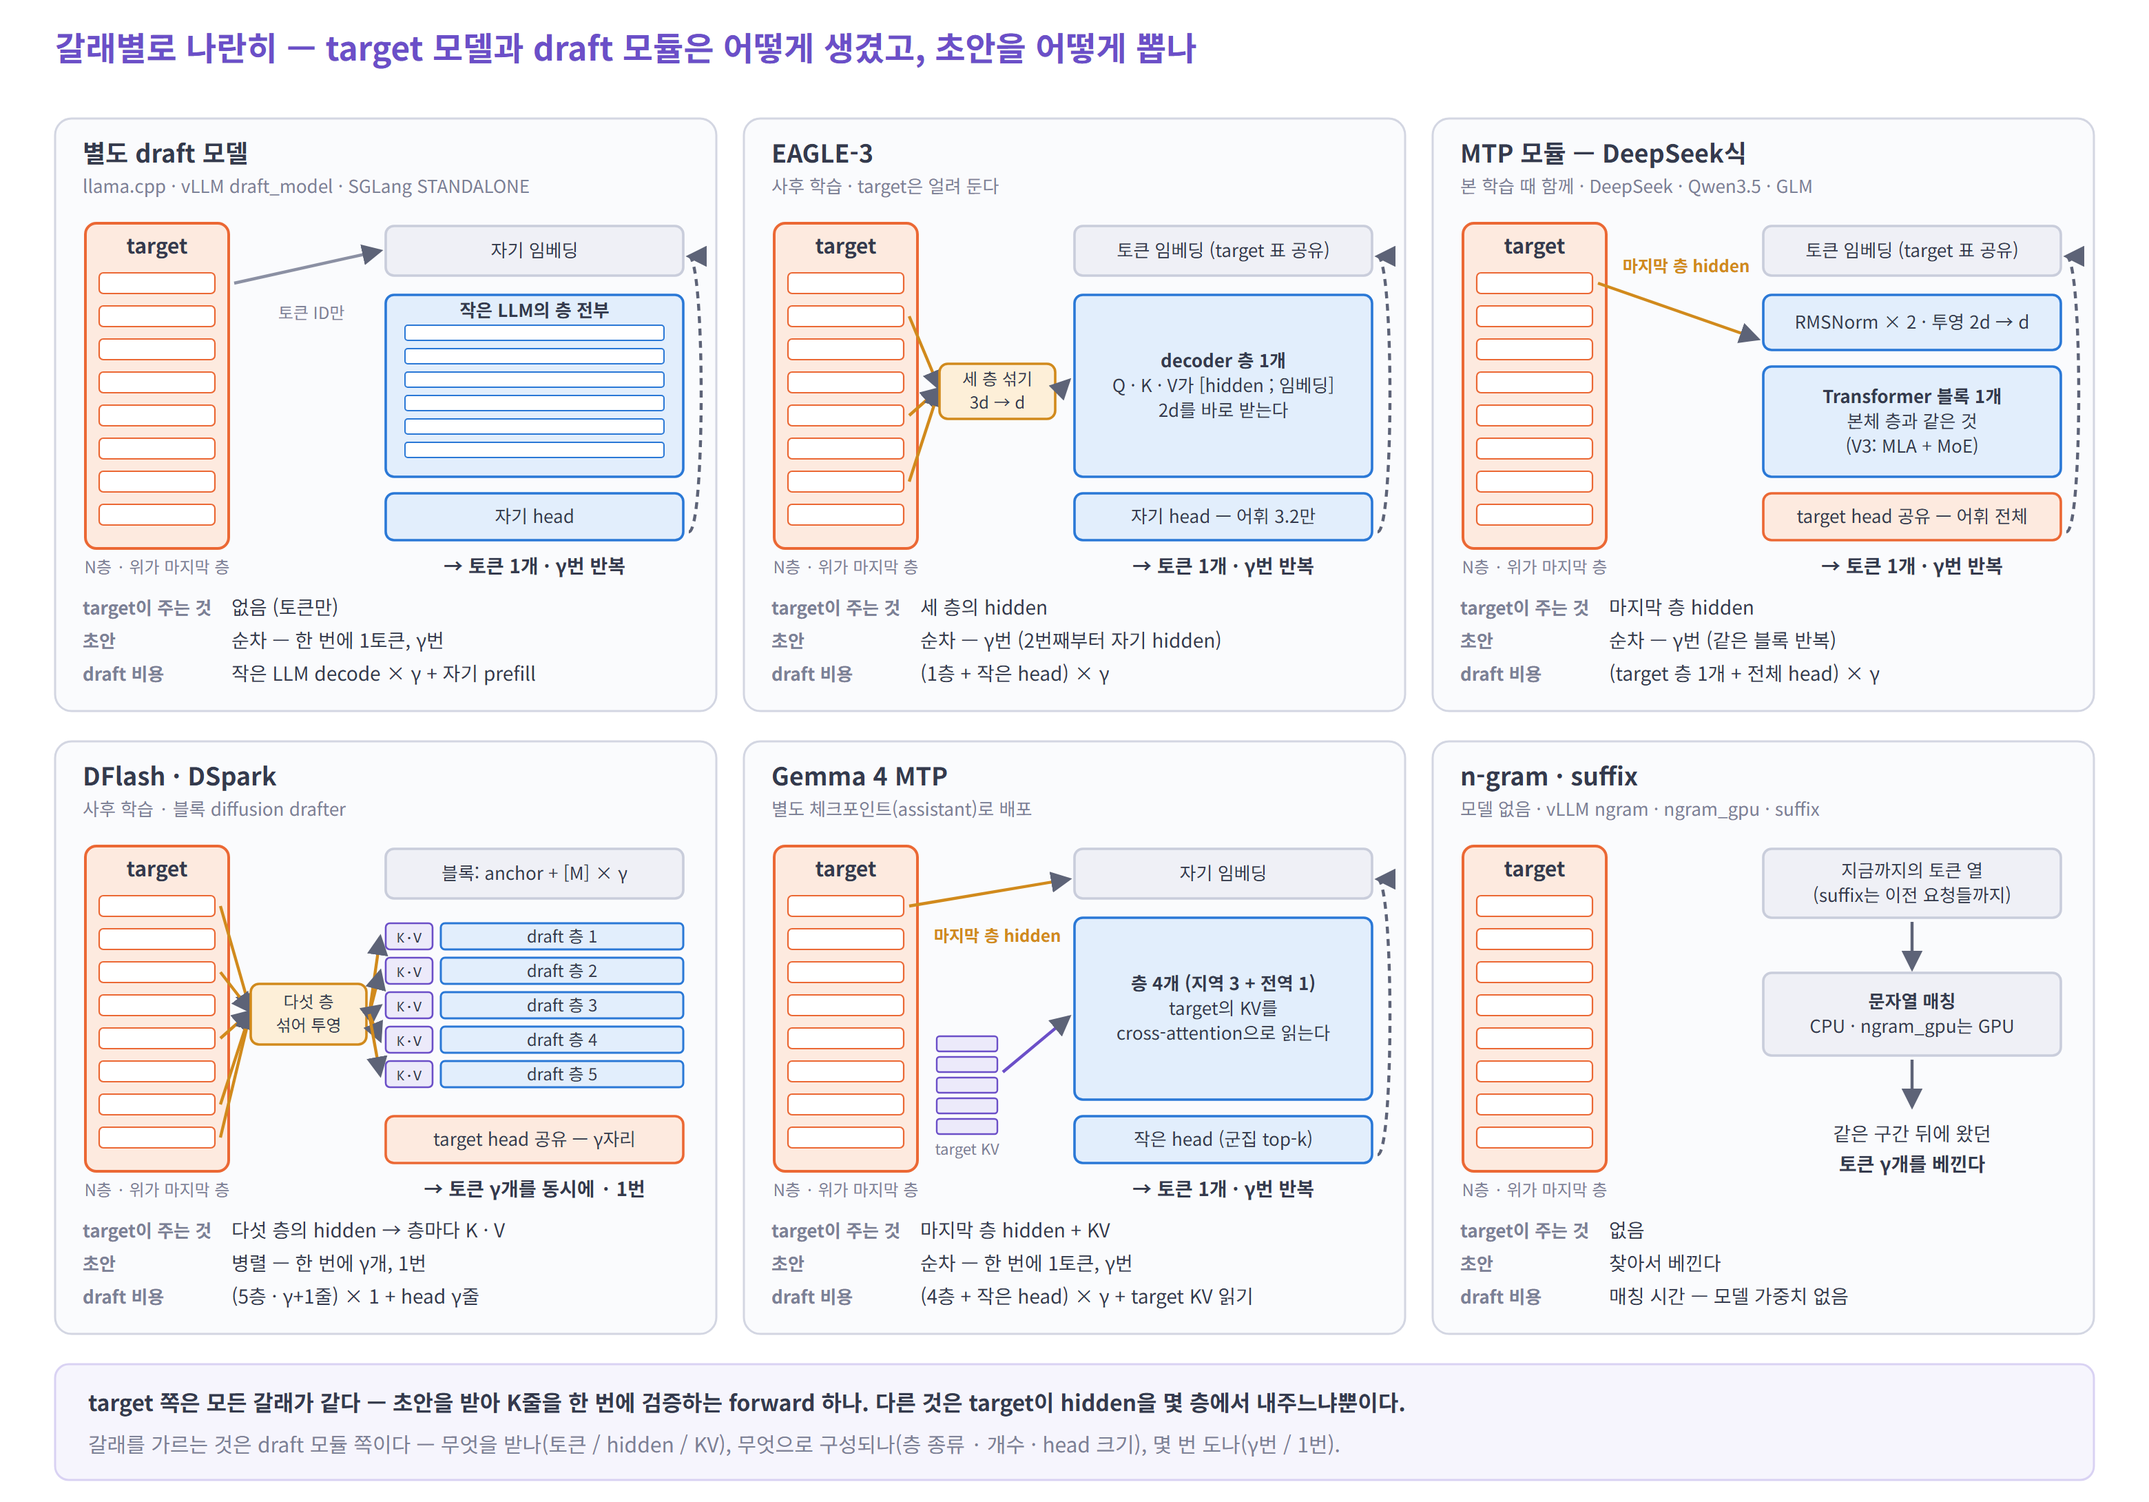
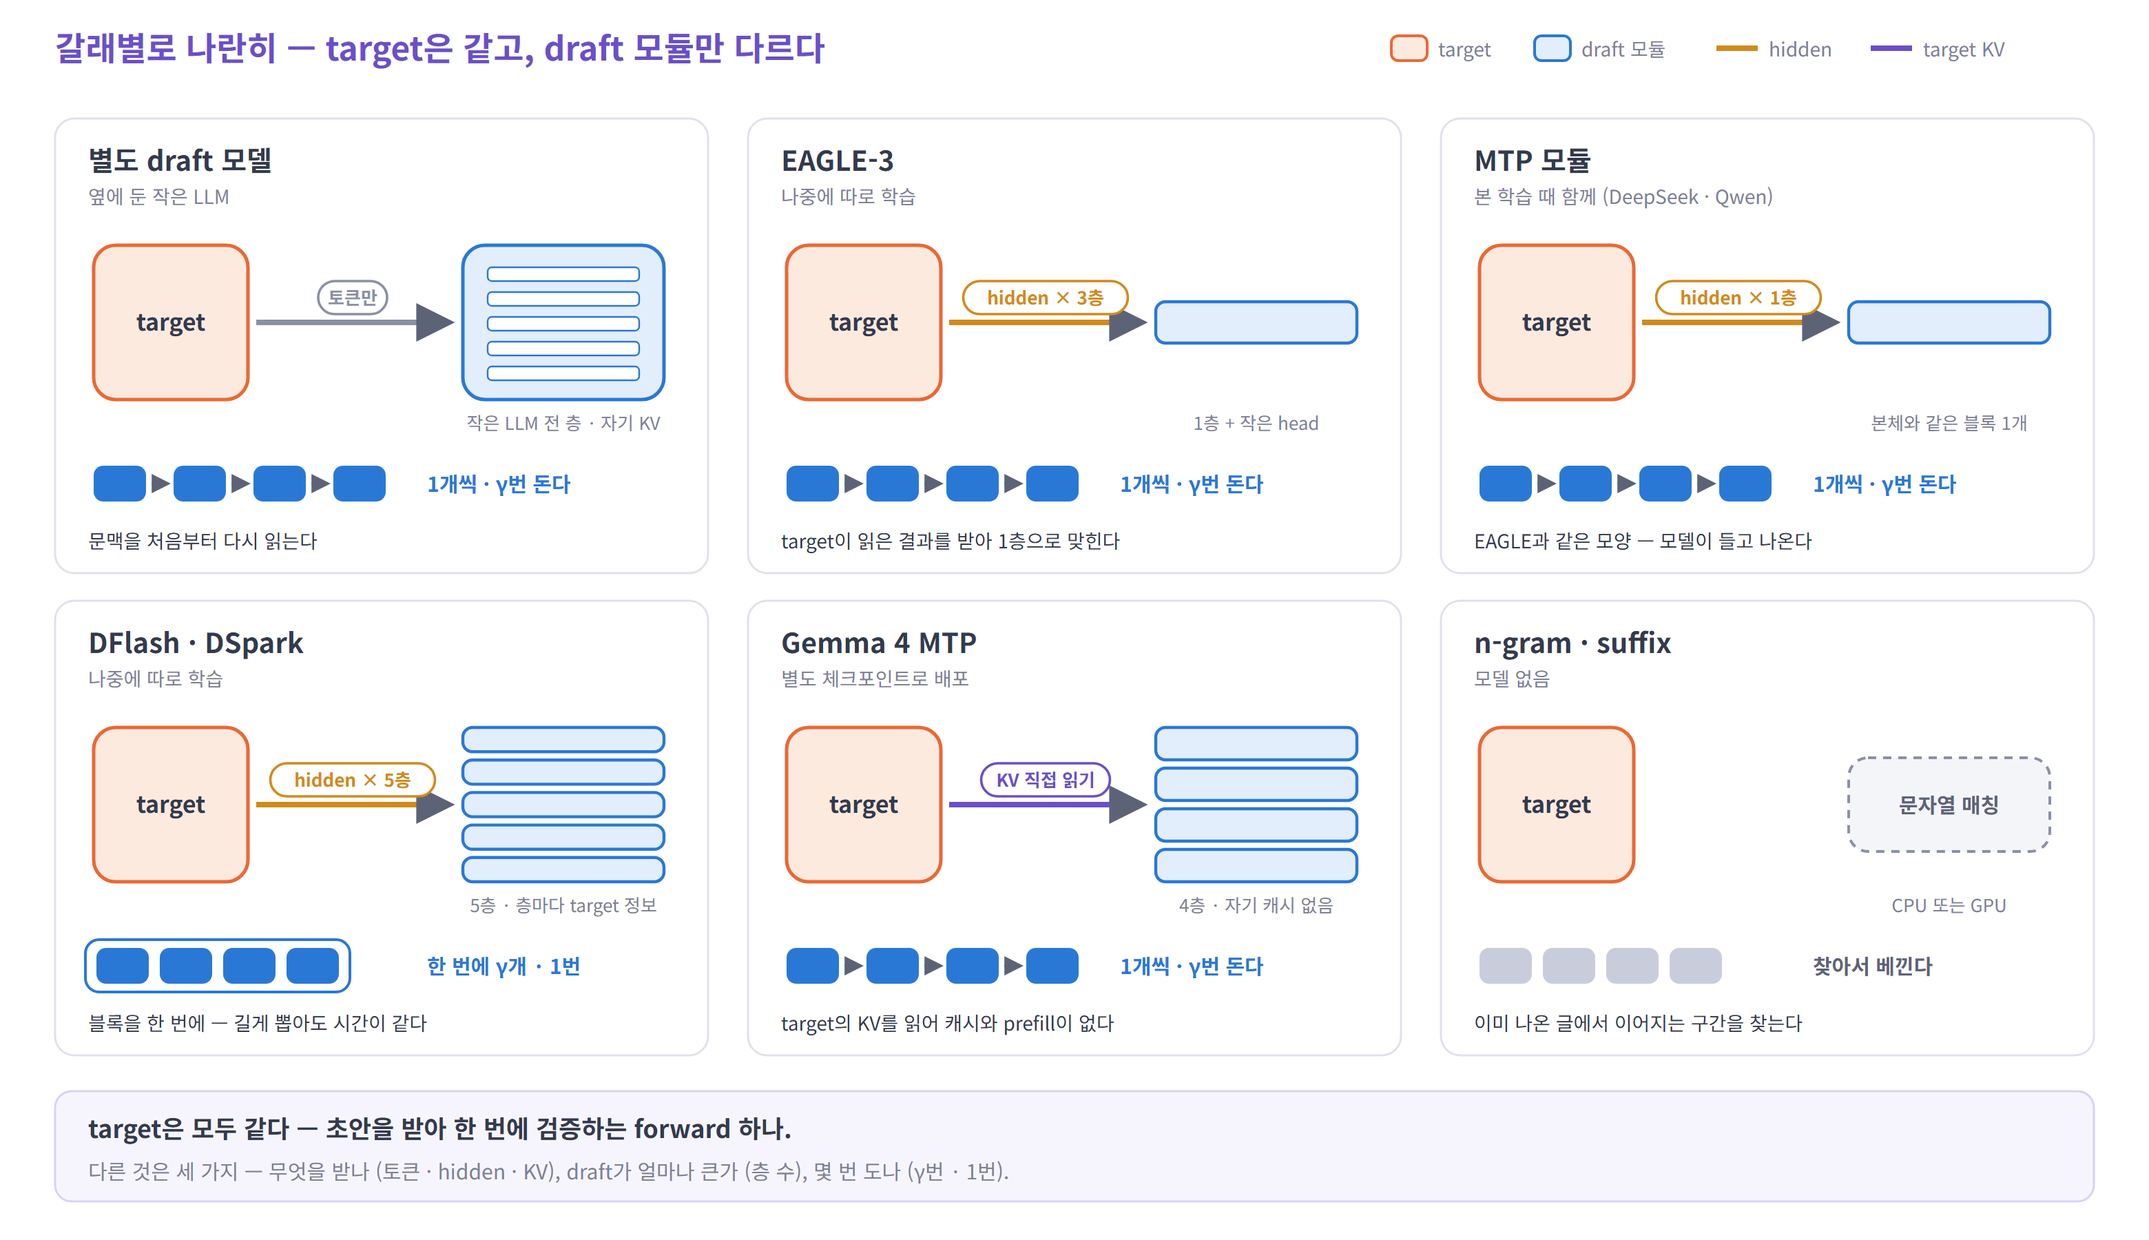
docs: simplify the side-by-side drafter figure into six cards
Redraw the branch comparison as one card per drafter: the same target
box in every card, one labeled arrow for what the draft side receives
(tokens, hidden from N layers, or target KV), the draft module sized by
its layer count, and token chips showing one-at-a-time versus
block-at-once drafting. Update the reading guide in the drafter page to
match.

diff --git a/deepstudy/speculative-decoding/figures/make_figures.py b/deepstudy/speculative-decoding/figures/make_figures.py
@@ -414,140 +414,88 @@ def fig_cycle_tokens():
 
 # ---------------------------------------------------------------- 22. 갈래별 target과 draft 모듈
 def fig_anatomy():
-    f = Fig("22-drafter-anatomy", 1560, 1090)
-    f.title(40, 44, "갈래별로 나란히 — target 모델과 draft 모듈은 어떻게 생겼고, 초안을 어떻게 뽑나")
-    AMB = KINDS["a"][1]
-    pw, ph = 480, 430
+    f = Fig("22-drafter-anatomy", 1560, 900)
+    f.title(40, 44, "갈래별로 나란히 — target은 같고, draft 모듈만 다르다")
+    AMB, GRAY = "#d18a1c", "#8b90a3"
+    # 범례
+    lx = 1010
+    f.rect(lx, 26, 26, 18, KINDS["t"][0], KINDS["t"][1], 5, 2)
+    f.text(lx + 34, 41, "target", 14, "start", color=MUTED)
+    f.rect(lx + 104, 26, 26, 18, KINDS["d"][0], KINDS["d"][1], 5, 2)
+    f.text(lx + 138, 41, "draft 모듈", 14, "start", color=MUTED)
+    f.line(lx + 236, 35, lx + 266, 35, AMB, 4)
+    f.text(lx + 274, 41, "hidden", 14, "start", color=MUTED)
+    f.line(lx + 348, 35, lx + 378, 35, PURPLE, 4)
+    f.text(lx + 386, 41, "target KV", 14, "start", color=MUTED)
 
-    def tlabel(x, y, w, h, kind, rows, fs=13, bold=False):
-        f.rect(x, y, w, h, KINDS[kind][0], KINDS[kind][1], 6, 1.8)
-        n = len(rows)
-        for i, r in enumerate(rows):
-            f.text(x + w / 2, y + h / 2 + (i - (n - 1) / 2) * (fs + 5) + fs * 0.35, r, fs, weight=700 if bold and i == 0 else 400)
+    cw, ch = 474, 330
 
-    def panel(px, py, name, sub, kind):
-        f.rect(px, py, pw, ph, "#fafbfd", "#d3d6e2", 12, 1.5)
-        f.text(px + 20, py + 32, name, 18, "start", 700)
-        f.text(px + 20, py + 54, sub, 13, "start", color=MUTED)
-        # target
-        tx, ty, tw, th = px + 22, py + 76, 104, 236
-        f.rect(tx, ty, tw, th, KINDS["t"][0], KINDS["t"][1], 8, 2)
-        f.text(tx + tw / 2, ty + 22, "target", 15, weight=700)
-        stripes = []
-        for j in range(8):
-            yy = ty + 36 + j * 24
-            f.rect(tx + 10, yy, tw - 20, 15, "#ffffff", KINDS["t"][1], 3, 1.1)
-            stripes.append(yy + 7.5)
-        f.text(tx + tw / 2, ty + th + 18, "N층 · 위가 마지막 층", 12, color=MUTED)
-        mx, mw = px + 240, 216
-        return tx, tw, stripes, mx, mw
+    def card(cx, cy, name, sub, flow, flow_col, draft, cap, mode, foot):
+        f.rect(cx, cy, cw, ch, "#ffffff", "#dfe2ec", 14, 1.5)
+        f.text(cx + 24, cy + 38, name, 20, "start", 700)
+        f.text(cx + 24, cy + 62, sub, 14, "start", color=MUTED)
+        # target — 모든 카드에서 같은 모양
+        f.rect(cx + 28, cy + 92, 112, 112, KINDS["t"][0], KINDS["t"][1], 16, 2.5)
+        f.text(cx + 84, cy + 154, "target", 17, weight=700)
+        # 받는 것
+        if flow:
+            f.line(cx + 146, cy + 148, cx + 286, cy + 148, flow_col, 4, None, True)
+            w = 14 * len(flow) * 0.62 + 24
+            f.rect(cx + 216 - w / 2, cy + 118, w, 24, "#ffffff", flow_col, 12, 1.8)
+            f.text(cx + 216, cy + 135, flow, 13, weight=700, color=flow_col)
+        # draft 모듈
+        dx, dy, dw, dh = cx + 296, cy + 92, 146, 112
+        if draft == "llm":
+            f.rect(dx, dy, dw, dh, KINDS["d"][0], KINDS["d"][1], 16, 2.5)
+            for j in range(5):
+                f.rect(dx + 18, dy + 16 + j * 18, dw - 36, 10, "#ffffff", KINDS["d"][1], 3, 1.2)
+        elif draft == "none":
+            f.rect(dx, dy + 22, dw, dh - 44, "#f4f5f9", GRAY, 14, 2, "6 5")
+            f.text(dx + dw / 2, dy + dh / 2 + 6, "문자열 매칭", 15, weight=700, color="#5d6377")
+        else:
+            n = draft
+            gap = 6
+            bh = min(30, (dh - (n - 1) * gap) / n)
+            top = dy + (dh - (n * bh + (n - 1) * gap)) / 2
+            for j in range(n):
+                f.rect(dx, top + j * (bh + gap), dw, bh, KINDS["d"][0], KINDS["d"][1], 7, 2.2)
+        f.text(dx + dw / 2, cy + 226, cap, 13, color=MUTED)
+        # 초안을 뽑는 방식
+        y = cy + 252
+        if mode == "seq":
+            for i in range(4):
+                f.rect(cx + 28 + i * 58, y, 38, 26, SOLID["d"], "none", 7)
+                if i < 3:
+                    f.line(cx + 70 + i * 58, y + 13, cx + 82 + i * 58, y + 13, KINDS["d"][1], 2, None, True)
+            f.text(cx + 270, y + 19, "1개씩 · γ번 돈다", 15, "start", 700, KINDS["d"][1])
+        elif mode == "par":
+            f.rect(cx + 22, y - 6, 192, 38, "none", KINDS["d"][1], 10, 2)
+            for i in range(4):
+                f.rect(cx + 30 + i * 46, y, 38, 26, SOLID["d"], "none", 7)
+            f.text(cx + 270, y + 19, "한 번에 γ개 · 1번", 15, "start", 700, KINDS["d"][1])
+        else:
+            for i in range(4):
+                f.rect(cx + 28 + i * 46, y, 38, 26, "#c9cddb", "none", 7)
+            f.text(cx + 270, y + 19, "찾아서 베낀다", 15, "start", 700, "#5d6377")
+        f.text(cx + 24, cy + 312, foot, 14, "start")
 
-    def loop(px, py, txt):
-        x = px + pw - 14
-        f.curve(x - 6, py + 300, x + 6, py + 300, x + 6, py + 100, x - 6, py + 100, dash="5 4")
+    xs, ys = [40, 543, 1046], [86, 436]
+    card(xs[0], ys[0], "별도 draft 모델", "옆에 둔 작은 LLM", "토큰만", GRAY, "llm", "작은 LLM 전 층 · 자기 KV", "seq",
+         "문맥을 처음부터 다시 읽는다")
+    card(xs[1], ys[0], "EAGLE-3", "나중에 따로 학습", "hidden × 3층", AMB, 1, "1층 + 작은 head", "seq",
+         "target이 읽은 결과를 받아 1층으로 맞힌다")
+    card(xs[2], ys[0], "MTP 모듈", "본 학습 때 함께 (DeepSeek · Qwen)", "hidden × 1층", AMB, 1, "본체와 같은 블록 1개", "seq",
+         "EAGLE과 같은 모양 — 모델이 들고 나온다")
+    card(xs[0], ys[1], "DFlash · DSpark", "나중에 따로 학습", "hidden × 5층", AMB, 5, "5층 · 층마다 target 정보", "par",
+         "블록을 한 번에 — 길게 뽑아도 시간이 같다")
+    card(xs[1], ys[1], "Gemma 4 MTP", "별도 체크포인트로 배포", "KV 직접 읽기", PURPLE, 4, "4층 · 자기 캐시 없음", "seq",
+         "target의 KV를 읽어 캐시와 prefill이 없다")
+    card(xs[2], ys[1], "n-gram · suffix", "모델 없음", None, GRAY, "none", "CPU 또는 GPU", "copy",
+         "이미 나온 글에서 이어지는 구간을 찾는다")
 
-    def foot(px, py, rows):
-        for i, (k, v) in enumerate(rows):
-            f.text(px + 20, py + 360 + i * 24, k, 13, "start", 700, MUTED)
-            f.text(px + 128, py + 360 + i * 24, v, 14, "start")
-
-    P = [(40, 86), (540, 86), (1040, 86), (40, 538), (540, 538), (1040, 538)]
-
-    # ① 별도 draft 모델
-    px, py = P[0]
-    tx, tw, st, mx, mw = panel(px, py, "별도 draft 모델", "llama.cpp · vLLM draft_model · SGLang STANDALONE", "n")
-    f.arrow(tx + tw + 4, st[0], mx - 4, py + 96, color="#8b90a3")
-    f.text(tx + tw + 60, st[0] + 26, "토큰 ID만", 12, color=MUTED)
-    tlabel(mx, py + 78, mw, 36, "n", ["자기 임베딩"])
-    f.rect(mx, py + 128, mw, 132, KINDS["d"][0], KINDS["d"][1], 6, 1.8)
-    for j in range(6):
-        f.rect(mx + 14, py + 150 + j * 17, mw - 28, 11, "#ffffff", KINDS["d"][1], 2, 1)
-    f.text(mx + mw / 2, py + 144, "작은 LLM의 층 전부", 13, weight=700)
-    tlabel(mx, py + 272, mw, 34, "d", ["자기 head"])
-    f.text(mx + mw / 2, py + 330, "→ 토큰 1개 · γ번 반복", 14, weight=700)
-    loop(px, py, "")
-    foot(px, py, [("target이 주는 것", "없음 (토큰만)"), ("초안", "순차 — 한 번에 1토큰, γ번"),
-                  ("draft 비용", "작은 LLM decode × γ + 자기 prefill")])
-
-    # ② EAGLE-3
-    px, py = P[1]
-    tx, tw, st, mx, mw = panel(px, py, "EAGLE-3", "사후 학습 · target은 얼려 둔다", "n")
-    for j in (1, 4, 6):
-        f.arrow(tx + tw - 6, st[j], px + 142, py + 196, color=AMB)
-    tlabel(px + 142, py + 178, 84, 40, "a", ["세 층 섞기", "3d → d"], 12)
-    tlabel(mx, py + 78, mw, 36, "n", ["토큰 임베딩 (target 표 공유)"])
-    f.arrow(px + 228, py + 198, mx - 4, py + 190, color=AMB)
-    tlabel(mx, py + 128, mw, 132, "d", ["decoder 층 1개", "Q · K · V가 [hidden ; 임베딩]", "2d를 바로 받는다"], 13, True)
-    tlabel(mx, py + 272, mw, 34, "d", ["자기 head — 어휘 3.2만"])
-    f.text(mx + mw / 2, py + 330, "→ 토큰 1개 · γ번 반복", 14, weight=700)
-    loop(px, py, "")
-    foot(px, py, [("target이 주는 것", "세 층의 hidden"), ("초안", "순차 — γ번 (2번째부터 자기 hidden)"),
-                  ("draft 비용", "(1층 + 작은 head) × γ")])
-
-    # ③ MTP (DeepSeek식)
-    px, py = P[2]
-    tx, tw, st, mx, mw = panel(px, py, "MTP 모듈 — DeepSeek식", "본 학습 때 함께 · DeepSeek · Qwen3.5 · GLM", "n")
-    f.arrow(tx + tw - 6, st[0], mx - 4, py + 160, color=AMB)
-    f.text(px + 184, st[0] - 8, "마지막 층 hidden", 12, weight=700, color=AMB)
-    tlabel(mx, py + 78, mw, 36, "n", ["토큰 임베딩 (target 표 공유)"])
-    tlabel(mx, py + 128, mw, 40, "d", ["RMSNorm × 2 · 투영 2d → d"])
-    tlabel(mx, py + 180, mw, 80, "d", ["Transformer 블록 1개", "본체 층과 같은 것", "(V3: MLA + MoE)"], 13, True)
-    tlabel(mx, py + 272, mw, 34, "t", ["target head 공유 — 어휘 전체"])
-    f.text(mx + mw / 2, py + 330, "→ 토큰 1개 · γ번 반복", 14, weight=700)
-    loop(px, py, "")
-    foot(px, py, [("target이 주는 것", "마지막 층 hidden"), ("초안", "순차 — γ번 (같은 블록 반복)"),
-                  ("draft 비용", "(target 층 1개 + 전체 head) × γ")])
-
-    # ④ DFlash · DSpark
-    px, py = P[3]
-    tx, tw, st, mx, mw = panel(px, py, "DFlash · DSpark", "사후 학습 · 블록 diffusion drafter", "n")
-    for j in (0, 2, 4, 6, 7):
-        f.arrow(tx + tw - 6, st[j], px + 142, py + 196, color=AMB)
-    tlabel(px + 142, py + 176, 84, 44, "a", ["다섯 층", "섞어 투영"], 12)
-    tlabel(mx, py + 78, mw, 36, "n", ["블록: anchor + [M] × γ"])
-    for i in range(5):
-        yy = py + 132 + i * 25
-        f.rect(mx + 40, yy, mw - 40, 19, KINDS["d"][0], KINDS["d"][1], 3, 1.5)
-        f.text(mx + 40 + (mw - 40) / 2, yy + 14, f"draft 층 {i + 1}", 12)
-        f.rect(mx, yy, 34, 19, KINDS["c"][0], KINDS["c"][1], 3, 1.3)
-        f.text(mx + 17, yy + 14, "K·V", 11, mono=True)
-        f.arrow(px + 228, py + 198, mx - 4, yy + 10, color=AMB)
-    tlabel(mx, py + 272, mw, 34, "t", ["target head 공유 — γ자리"])
-    f.text(mx + mw / 2, py + 330, "→ 토큰 γ개를 동시에 · 1번", 14, weight=700)
-    foot(px, py, [("target이 주는 것", "다섯 층의 hidden → 층마다 K · V"), ("초안", "병렬 — 한 번에 γ개, 1번"),
-                  ("draft 비용", "(5층 · γ+1줄) × 1 + head γ줄")])
-
-    # ⑤ Gemma 4 MTP
-    px, py = P[4]
-    tx, tw, st, mx, mw = panel(px, py, "Gemma 4 MTP", "별도 체크포인트(assistant)로 배포", "n")
-    f.arrow(tx + tw - 6, st[0], mx - 4, py + 100, color=AMB)
-    f.text(px + 184, st[0] + 26, "마지막 층 hidden", 12, weight=700, color=AMB)
-    for j in range(5):
-        f.rect(px + 140, py + 214 + j * 15, 44, 11, KINDS["c"][0], KINDS["c"][1], 2, 1.2)
-    f.text(px + 162, py + 300, "target KV", 11, color=MUTED)
-    f.arrow(px + 188, py + 240, mx - 4, py + 200, color=PURPLE)
-    tlabel(mx, py + 78, mw, 36, "n", ["자기 임베딩"])
-    tlabel(mx, py + 128, mw, 132, "d", ["층 4개 (지역 3 + 전역 1)", "target의 KV를", "cross-attention으로 읽는다"], 13, True)
-    tlabel(mx, py + 272, mw, 34, "d", ["작은 head (군집 top-k)"])
-    f.text(mx + mw / 2, py + 330, "→ 토큰 1개 · γ번 반복", 14, weight=700)
-    loop(px, py, "")
-    foot(px, py, [("target이 주는 것", "마지막 층 hidden + KV"), ("초안", "순차 — 한 번에 1토큰, γ번"),
-                  ("draft 비용", "(4층 + 작은 head) × γ + target KV 읽기")])
-
-    # ⑥ n-gram · suffix
-    px, py = P[5]
-    tx, tw, st, mx, mw = panel(px, py, "n-gram · suffix", "모델 없음 · vLLM ngram · ngram_gpu · suffix", "n")
-    tlabel(mx, py + 78, mw, 50, "n", ["지금까지의 토큰 열", "(suffix는 이전 요청들까지)"])
-    f.arrow(mx + mw / 2, py + 131, mx + mw / 2, py + 165)
-    tlabel(mx, py + 168, mw, 60, "n", ["문자열 매칭", "CPU · ngram_gpu는 GPU"], 13, True)
-    f.arrow(mx + mw / 2, py + 231, mx + mw / 2, py + 265)
-    f.text(mx + mw / 2, py + 290, "같은 구간 뒤에 왔던", 14)
-    f.text(mx + mw / 2, py + 312, "토큰 γ개를 베낀다", 14, weight=700)
-    foot(px, py, [("target이 주는 것", "없음"), ("초안", "찾아서 베낀다"), ("draft 비용", "매칭 시간 — 모델 가중치 없음")])
-
-    f.rect(40, 990, 1480, 84, "#f6f5fd", "#d9d2f3", 10, 1.5)
-    f.text(64, 1024, "target 쪽은 모든 갈래가 같다 — 초안을 받아 K줄을 한 번에 검증하는 forward 하나. 다른 것은 target이 hidden을 몇 층에서 내주느냐뿐이다.", 16, "start", 700)
-    f.text(64, 1054, "갈래를 가르는 것은 draft 모듈 쪽이다 — 무엇을 받나(토큰 / hidden / KV), 무엇으로 구성되나(층 종류 · 개수 · head 크기), 몇 번 도나(γ번 / 1번).", 15, "start",
+    f.rect(40, 792, 1480, 80, "#f6f5fd", "#d9d2f3", 12, 1.5)
+    f.text(64, 826, "target은 모두 같다 — 초안을 받아 한 번에 검증하는 forward 하나.", 18, "start", 700)
+    f.text(64, 856, "다른 것은 세 가지 — 무엇을 받나 (토큰 · hidden · KV), draft가 얼마나 큰가 (층 수), 몇 번 도나 (γ번 · 1번).", 15, "start",
            color=MUTED)
     return f
 

diff --git a/deepstudy/speculative-decoding/02-drafters.md b/deepstudy/speculative-decoding/02-drafters.md
@@ -34,13 +34,12 @@
 
 ![갈래별 target과 draft 모듈](figures/22-drafter-anatomy.png)
 
-패널 하나가 갈래 하나다. 왼쪽 주황 탑이 **target**, 오른쪽 상자들이 **draft 모듈**이다.
+카드 하나가 갈래 하나다. 세 군데만 보면 된다.
 
-- **target은 여섯 갈래 모두 같다.** 초안을 받아 `K`줄을 한 번에 검증하는 forward 하나다. 다른 것은 **주황 화살표** — hidden을 몇 층에서 내주느냐뿐이다 (없음 / 마지막 층 / 세 층 / 다섯 층)
-- **draft 모듈은 위에서 아래로 읽는다.** 맨 위가 입력(토큰 임베딩, 또는 블록), 가운데가 층(종류와 개수), 아래가 head(어휘를 얼마나 다루나), 맨 아래 굵은 글자가 출력이다
-- **오른쪽 점선 되돌이 화살표**가 있으면 순차다 — 한 번에 토큰 1개를 내고 `γ`번 돈다. DFlash · DSpark에는 없다 — 한 번에 `γ`개를 낸다
-- **보라 화살표**(Gemma 4)는 target의 KV를 직접 읽는 길이다. 이 갈래만 draft 쪽에 문맥 캐시가 없다
-- 아래 세 줄이 패널의 요약이다 — target이 주는 것, 초안을 만드는 방식, draft 비용
+- **왼쪽 주황 상자 — target.** 여섯 카드 모두 같은 모양이다. 초안을 받아 `K`줄을 한 번에 검증하는 forward 하나라는 점은 어느 갈래든 같다
+- **가운데 화살표 — draft가 target에서 받는 것.** 토큰만 받거나(별도 모델), target이 읽은 결과인 hidden을 받거나(EAGLE-3는 세 층, MTP는 한 층, DFlash는 다섯 층), target의 KV를 직접 읽는다(Gemma 4). n-gram은 받는 것이 없다
+- **오른쪽 파란 상자 — draft 모듈.** 막대 하나가 층 하나다. 상자가 클수록 초안 한 번이 비싸다. 작은 LLM 전체 → 1층 → 4 · 5층 순이다
+- **아래 파란 칩 — 초안 4개를 뽑는 방식.** 화살표로 이어지면 1개씩 `γ`번 돈다(순차). 테두리 하나로 묶여 있으면 한 번에 `γ`개를 낸다(병렬, DFlash · DSpark)
 
 ### 워크로드로 옮기면
 
